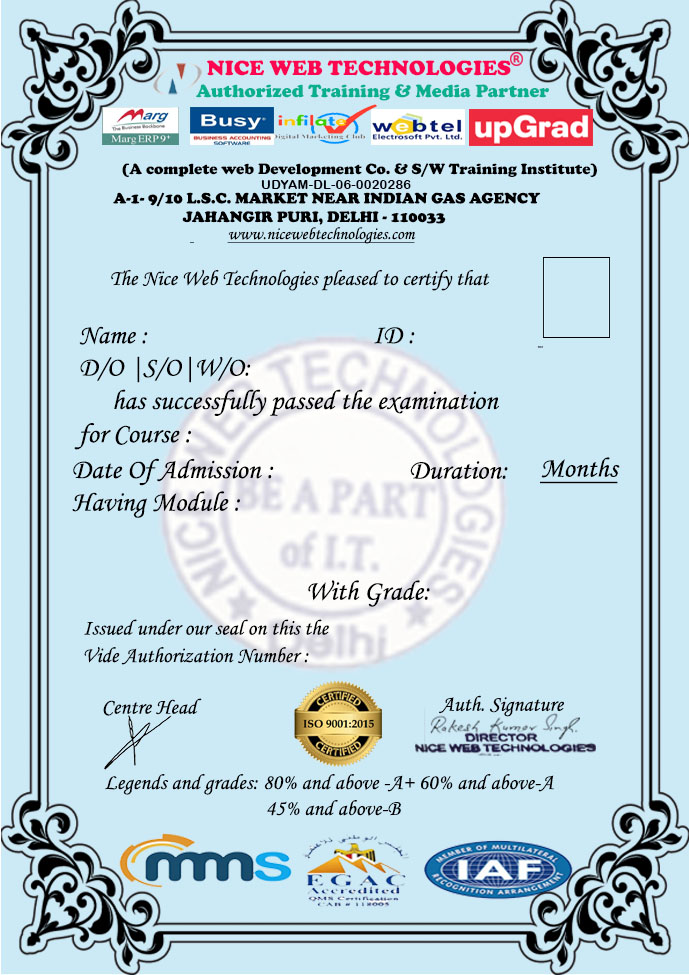
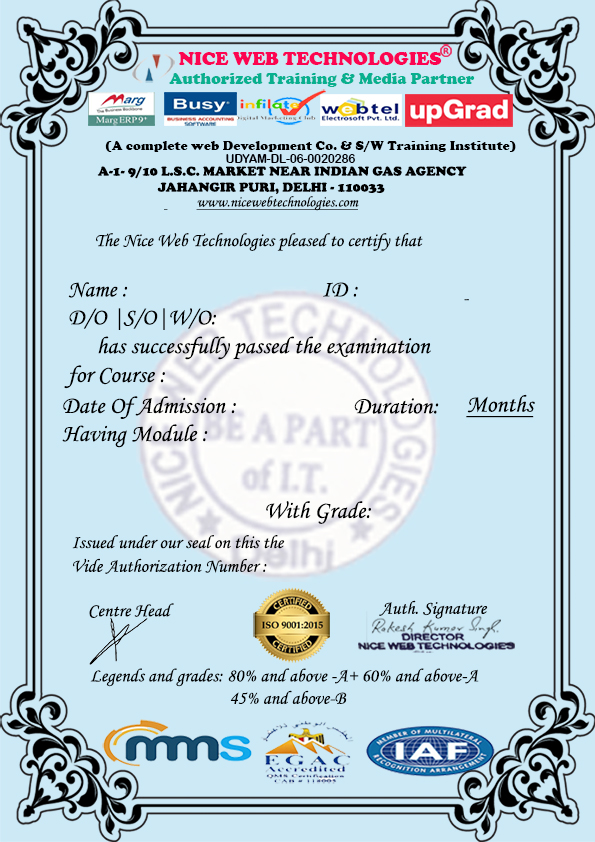
commit

diff --git a/resources/views/dashboard/certificates/selected_certificates.blade.php b/resources/views/dashboard/certificates/selected_certificates.blade.php
@@ -7,26 +7,40 @@
     <meta name="viewport" content="width=device-width, initial-scale=1.0">
     <title>Certificates</title>
     <style>
-        body {
+        body,html {
             margin: 0;
             padding: 0;
-            font-family: 'Arial', sans-serif;
-        }
-        .certificate-container {
-            width: 210mm; /* A4 width */
-            height: 297mm; /* A4 height */
-            position: relative;
-            page-break-inside: avoid;
-            box-sizing: border-box;
-        }
-        .background-image {
-            width: 100%;
+            font-family: Arial, sans-serif;
+            display: flex;
+            flex-wrap: wrap;
+            justify-content: flex-start; /* Align the cards from the left */
+            width: 100%; /* Full width of the page */
             height: 100%;
-            position: absolute;
-            top: 0;
-            left: 0;
-            object-fit: cover;
+            box-sizing: border-box; /* Avoid any unwanted space due to padding/margin */
         }
+
+        .certificate-container {
+
+            margin: 0;
+            padding: 0;
+    width: 210mm;
+    height: 297mm;
+    position: relative;
+    page-break-inside: avoid;
+    box-sizing: border-box;
+    position:relative
+   /* Ensure content doesn't spill over */
+}
+
+.background-image {
+    width: 210mm;
+    height: 297mm;
+    position: absolute;
+    top: 0;
+    left: 0;
+    object-fit: cover; /* Ensures the image covers the entire area */
+}
+
          .content {
             width: 80%;
             z-index: 1; /* Ensure text appears above the background */
@@ -35,7 +49,7 @@
             text-align: left;
             color: #000;
             font-size:22px;
-        
+        top:200px;
         }
        
        
@@ -43,21 +57,22 @@
         .id {float:right; margin-top:60px; margin-right:225px;}
         .name {float:left; margin-top:60px;margin-left:60px;}
         .father {float:left; margin-top:100px;margin-left:80px;}
-        .type {float:left; margin-top:50px;margin-left:120px;}
-        .adm {float:left; margin-top:20px; margin-left:210px;  font-size:22px;}
+        .type {position:absolute;top:290px;left:240px;}
+        .adm {position:absolute; top:330px;left:320px;  font-size:22px;}
         .dur {position:absolute; top:330px;left:590px; font-size:24px;}
-        .desc {position:absolute;top:365px;margin-left:170px;   text-indent: 170px; margin:0px; line-height: 1.4;font-size:22px; width:70%;}
+        .desc {position:absolute;top:365px;left:120px;   text-indent: 170px; line-height: 1.4;font-size:22px; width:70%;}
         .grade {margin-top:350px;margin-left:400px; font-size:24px; }
-        .code {margin-top:10px;margin-left:280px; font-size:18px; }
-        .issudt {margin-top:30px; margin-left:280px;}
+        .code {margin-top:10px;margin-left:250px; font-size:18px; }
+        .issudt {margin-top:20px; margin-left:280px;}
         
     </style>
 </head>
 <body>
     @foreach ($certificates as $certificate)
+   
         <div class="certificate-container">
-        <img src="{{ public_path('assets/images/certificate.jpg') }}" alt="Certificate Background" class="background-image">
-            <div class="content" style="margin-top:200px;">
+        <img src="{{public_path('assets/images/certificate.jpg') }}" alt="Certificate Background" class="background-image">
+            <div class="content" >
          
                 <div class="id"><strong><u> {{ $certificate->student_id }}</u></strong></div>
                 <div class="name"><u>{{ $certificate->name }}</u></div>

diff --git a/app/Http/Controllers/CertificateController.php b/app/Http/Controllers/CertificateController.php
@@ -92,7 +92,7 @@ public function downloadSelected(Request $request)
     $certificates = Certificate::whereIn('id', $request->selected_certificates)->get();
 
     $pdf = Pdf::loadView('dashboard.certificates.selected_certificates', compact('certificates'))
-              ->setPaper('a4', 'portrait'); // Enforce A4 size in portrait mode
+    ->setPaper([0, 0, 595.276, 841.890], 'portrait'); // Enforce A4 size in portrait mode $pdf->setPaper([0, 0, 162, 256], 'portrait');
 
     return $pdf->download('selected_certificates.pdf');
 }
